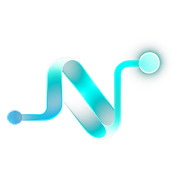
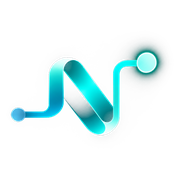
Add files via upload

Changed region(s): [[0.0278, 0.25, 0.9167, 0.7778]]

diff --git a/applications.html b/applications.html
@@ -1533,6 +1533,16 @@ h1,h2,h3,.big,.hero-h1,.xt,.q .qq,.stepc h3,.pers h3,.ap-top h3,.lay h3,.card h3
 .mark--sm::before{width:170px;height:38px}
 @media(max-width:620px){.mark::before{width:150px;height:34px}}
 @media(max-width:400px){.mark::before{width:132px;height:30px}}
+
+/* brand artwork: compact lockup in the chrome (tagline is sub-pixel at nav size) */
+.mark::before,.nav:not(.solid) .mark::before,.nav.solid .mark::before,
+.foot .mark--sm::before,.overlay .mark::before{filter:none !important}
+.mark::before{background:url(/assets/logo-nav.png) left center / contain no-repeat;
+  width:188px;height:34px}
+.mark--sm::before{background:url(/assets/logo-nav.png) left center / contain no-repeat;
+  width:156px;height:28px}
+@media(max-width:620px){.mark::before{width:150px;height:27px}}
+@media(max-width:400px){.mark::before{width:130px;height:23px}}
 </style>
 
 <script type="application/ld+json">

diff --git a/batch-release.html b/batch-release.html
@@ -1533,6 +1533,16 @@ h1,h2,h3,.big,.hero-h1,.xt,.q .qq,.stepc h3,.pers h3,.ap-top h3,.lay h3,.card h3
 .mark--sm::before{width:170px;height:38px}
 @media(max-width:620px){.mark::before{width:150px;height:34px}}
 @media(max-width:400px){.mark::before{width:132px;height:30px}}
+
+/* brand artwork: compact lockup in the chrome (tagline is sub-pixel at nav size) */
+.mark::before,.nav:not(.solid) .mark::before,.nav.solid .mark::before,
+.foot .mark--sm::before,.overlay .mark::before{filter:none !important}
+.mark::before{background:url(/assets/logo-nav.png) left center / contain no-repeat;
+  width:188px;height:34px}
+.mark--sm::before{background:url(/assets/logo-nav.png) left center / contain no-repeat;
+  width:156px;height:28px}
+@media(max-width:620px){.mark::before{width:150px;height:27px}}
+@media(max-width:400px){.mark::before{width:130px;height:23px}}
 </style>
 
 <script type="application/ld+json">

diff --git a/index.html b/index.html
@@ -1811,6 +1811,16 @@ h1,h2,h3,.big,.hero-h1,.xt,.q .qq,.stepc h3,.pers h3,.ap-top h3,.lay h3,.card h3
 .mark--sm::before{width:170px;height:38px}
 @media(max-width:620px){.mark::before{width:150px;height:34px}}
 @media(max-width:400px){.mark::before{width:132px;height:30px}}
+
+/* brand artwork: compact lockup in the chrome (tagline is sub-pixel at nav size) */
+.mark::before,.nav:not(.solid) .mark::before,.nav.solid .mark::before,
+.foot .mark--sm::before,.overlay .mark::before{filter:none !important}
+.mark::before{background:url(/assets/logo-nav.png) left center / contain no-repeat;
+  width:188px;height:34px}
+.mark--sm::before{background:url(/assets/logo-nav.png) left center / contain no-repeat;
+  width:156px;height:28px}
+@media(max-width:620px){.mark::before{width:150px;height:27px}}
+@media(max-width:400px){.mark::before{width:130px;height:23px}}
 </style>
 
 <script type="application/ld+json">

diff --git a/platform.html b/platform.html
@@ -1533,6 +1533,16 @@ h1,h2,h3,.big,.hero-h1,.xt,.q .qq,.stepc h3,.pers h3,.ap-top h3,.lay h3,.card h3
 .mark--sm::before{width:170px;height:38px}
 @media(max-width:620px){.mark::before{width:150px;height:34px}}
 @media(max-width:400px){.mark::before{width:132px;height:30px}}
+
+/* brand artwork: compact lockup in the chrome (tagline is sub-pixel at nav size) */
+.mark::before,.nav:not(.solid) .mark::before,.nav.solid .mark::before,
+.foot .mark--sm::before,.overlay .mark::before{filter:none !important}
+.mark::before{background:url(/assets/logo-nav.png) left center / contain no-repeat;
+  width:188px;height:34px}
+.mark--sm::before{background:url(/assets/logo-nav.png) left center / contain no-repeat;
+  width:156px;height:28px}
+@media(max-width:620px){.mark::before{width:150px;height:27px}}
+@media(max-width:400px){.mark::before{width:130px;height:23px}}
 </style>
 
 <script type="application/ld+json">

diff --git a/security.html b/security.html
@@ -1446,6 +1446,16 @@ h1,h2,h3,.big,.hero-h1,.xt,.q .qq,.stepc h3,.pers h3,.ap-top h3,.lay h3,.card h3
 .mark--sm::before{width:170px;height:38px}
 @media(max-width:620px){.mark::before{width:150px;height:34px}}
 @media(max-width:400px){.mark::before{width:132px;height:30px}}
+
+/* brand artwork: compact lockup in the chrome (tagline is sub-pixel at nav size) */
+.mark::before,.nav:not(.solid) .mark::before,.nav.solid .mark::before,
+.foot .mark--sm::before,.overlay .mark::before{filter:none !important}
+.mark::before{background:url(/assets/logo-nav.png) left center / contain no-repeat;
+  width:188px;height:34px}
+.mark--sm::before{background:url(/assets/logo-nav.png) left center / contain no-repeat;
+  width:156px;height:28px}
+@media(max-width:620px){.mark::before{width:150px;height:27px}}
+@media(max-width:400px){.mark::before{width:130px;height:23px}}
 </style>
 
 <script type="application/ld+json">
